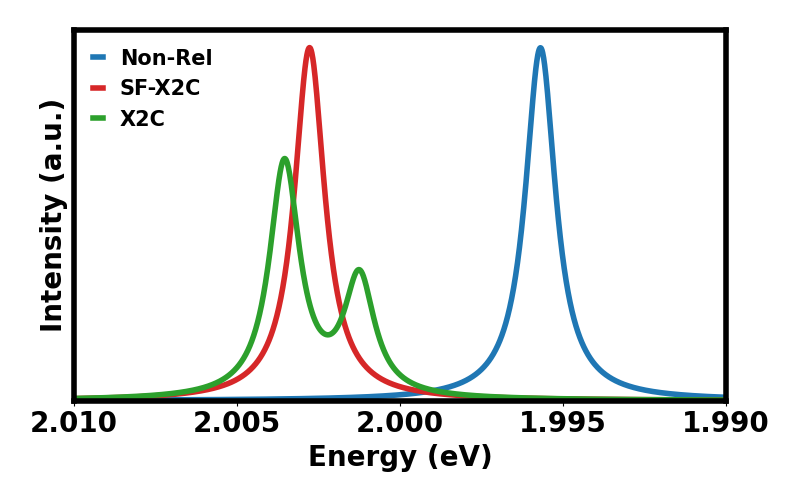
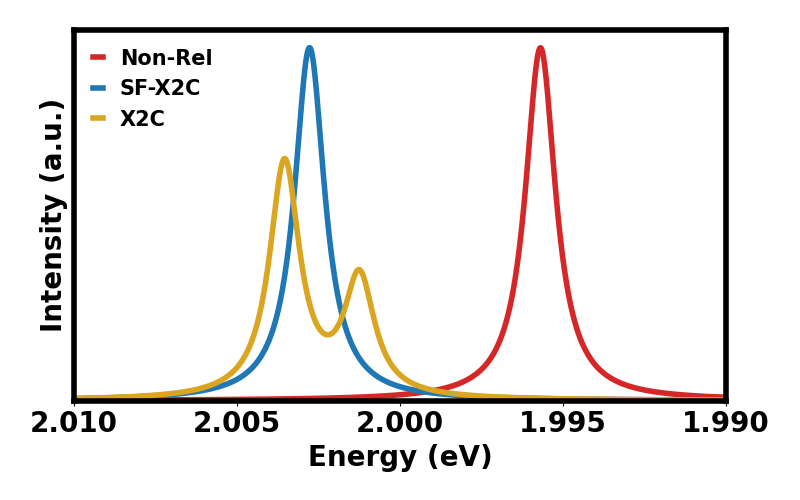
Removed red/green for plotting

diff --git a/plot_ci.py b/plot_ci.py
@@ -72,7 +72,7 @@ for i in range(len(fileList)):
   plots[i].make_spectrum("Full Spectrum", enMin, enMax, fullEn[i], fullOs[i], 0.001, npoints=nPoints)
 
 #PLOTTING:
-colors = list(['tab:blue','tab:red', 'tab:green'])
+colors = list(['tab:red', 'tab:blue', 'goldenrod'])
 fig, ax = plt.subplots(1, sharex='col', figsize=[8,5], gridspec_kw={'hspace': 0},squeeze=False)
 
 for e,p in enumerate(plots):
